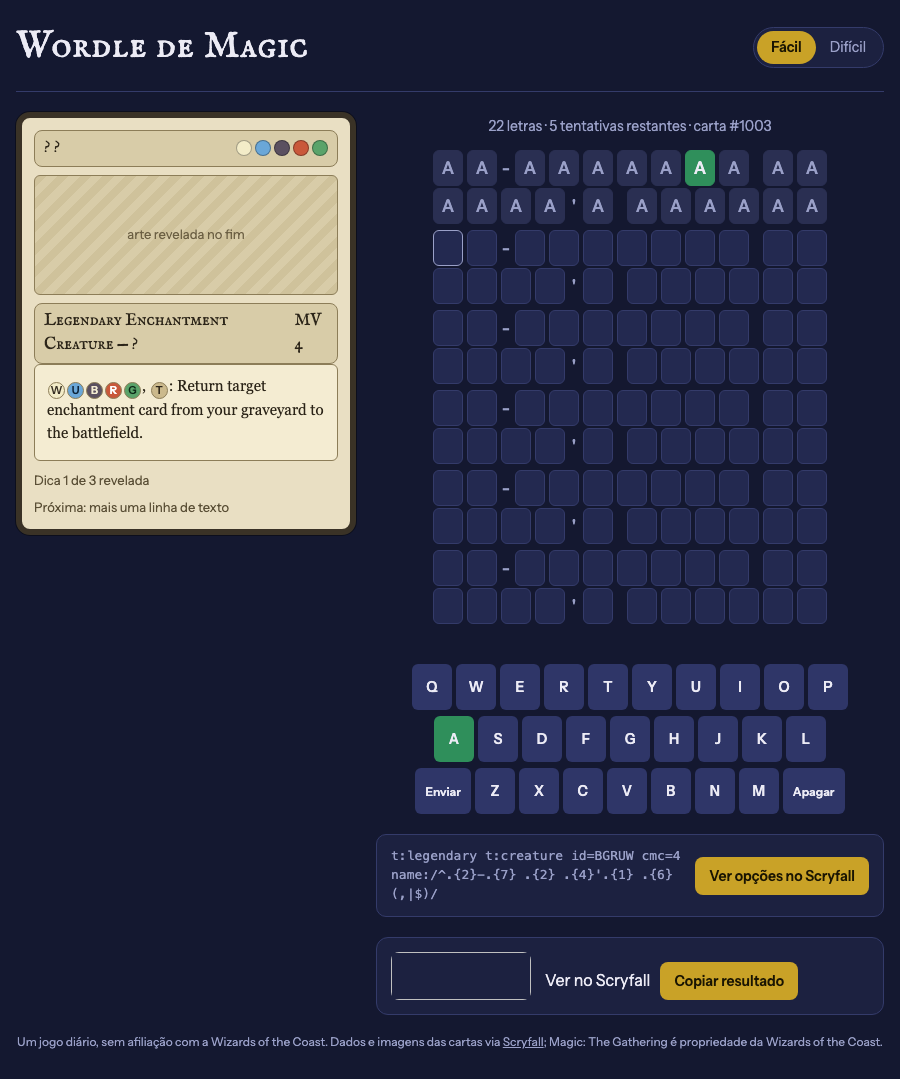
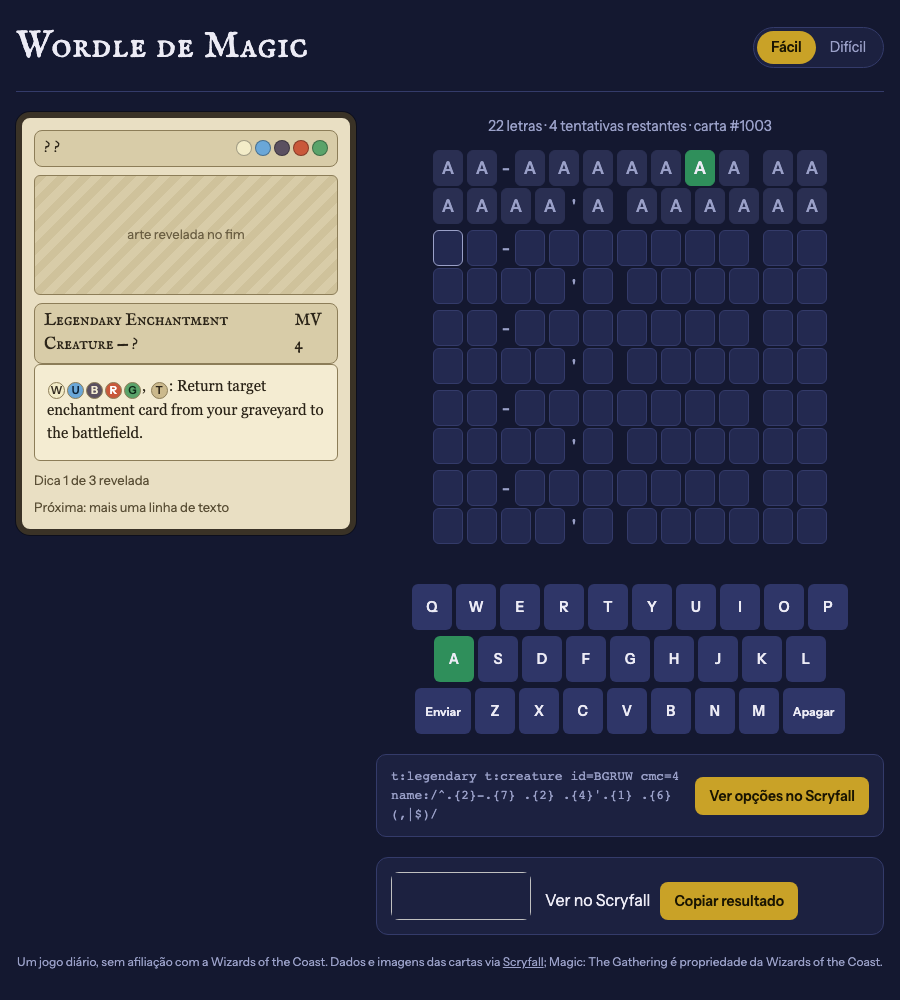
Igualar tentativas dos dois modos (5) para balancear a dificuldade
O modo difícil tinha quase o dobro de tentativas do fácil (8 vs 6), o que
deixava a diferença de dificuldade desproporcional. Agora os dois modos
têm 5 tentativas — a dificuldade vem só do tamanho do nome-alvo (curto
antes da vírgula vs. carta inteira), não de ter mais chances no difícil.

Atualiza também o script de teste e os screenshots de referência para
refletir os 5 tentativas.

diff --git a/js/gameLogic.js b/js/gameLogic.js
@@ -1,7 +1,7 @@
 // Funções puras de lógica de jogo — sem acesso ao DOM.
 // Facilita testar e raciocinar sobre as regras separadamente da renderização.
 
-export const MAX_ATTEMPTS = { easy: 6, hard: 8 };
+export const MAX_ATTEMPTS = { easy: 5, hard: 5 };
 
 // Época fixa usada para calcular o índice do "puzzle do dia" de forma
 // determinística e igual para todos os jogadores (mesmo princípio do Wordle).

diff --git a/CLAUDE.md b/CLAUDE.md
@@ -70,7 +70,9 @@ reintroduzir se mexer nele:
   peça abaixo).
 - **Modo difícil**: nome completo, pontuação/espaços já revelados como
   peças fixas.
-- Tentativas: fácil = 6, difícil = 8 (`MAX_ATTEMPTS` em `gameLogic.js`).
+- Tentativas: 5 nos dois modos (`MAX_ATTEMPTS` em `gameLogic.js`) — a
+  dificuldade vem só do tamanho do nome-alvo (curto vs. completo), não de
+  ter menos chances.
 - Dicas reveladas progressivamente por tentativa: linhas do Oracle text,
   depois o subtipo de criatura. Identidade de cor e valor de mana (MV) já
   aparecem desde o início; o custo de mana exato fica com "?" até o fim.
